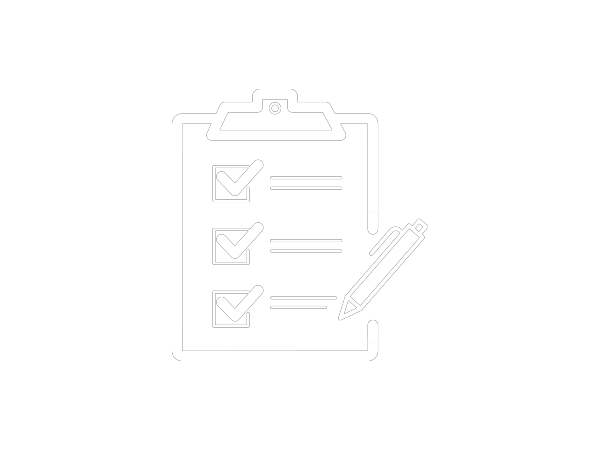
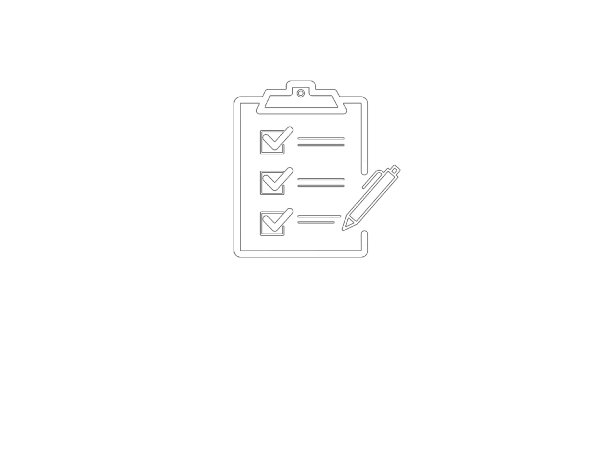
Update solutions images and styling for correct positioning

diff --git a/layouts/partials/skills.html b/layouts/partials/skills.html
@@ -19,7 +19,7 @@
 		<div class="row">
 			<div class="skills-list col-xs-12 text-center">
 				{{ range $index, $element:= .skills_item }}
-				<img class="skills-item m-3 img-fluid" src="{{ .image_webp | absURL }}" onerror="this.onerror=null;this.src='{{ .image | absURL }}'" title="{{ .name }}" alt="{{ .name }}">
+				<img class="lozad skills-item m-3 img-fluid" data-src="{{ .image_webp | absURL }}" onerror="this.onerror=null;this.src='{{ .image | absURL }}'" title="{{ .name }}" alt="{{ .name }}">
 				{{ end }}
 			</div>
 		</div>

diff --git a/layouts/partials/solutions.html b/layouts/partials/solutions.html
@@ -45,6 +45,7 @@
 				data-groups="[{{range $index, $element:= .categories }}{{if ne $index 0}},{{end}}&quot;{{. | urlize}}&quot;{{ end }}]">
 				<div class="solutions-block mb-4">
 					<img class="img-fluid" src="{{ .image_webp | absURL }}" onerror="this.onerror=null;this.src='{{ .image | absURL }}'" alt="{{ .name }}">
+					<h5 class="name">{{ .name | markdownify }}</h3>
 					<div class="caption">
 						<a class="link-icon" data-effect="mfp-with-zoom" href="{{ .link | safeURL }}">
 							<i class="ti-arrow-top-right"></i>

diff --git a/assets/css/custom.css b/assets/css/custom.css
@@ -909,6 +909,17 @@ a:hover {
   opacity: 1;
 }
 
+.solutions-block .name {
+  color: #fff;
+  position: absolute;
+  top: 60%;
+  left: 50%;
+  -webkit-transform: translate(-50%, 0);
+  transform: translate(-50%, 0);
+  z-index: 9;
+  text-align: center;
+}
+
 .solutions-block:hover .caption h4 {
   top: 45%;
 }
